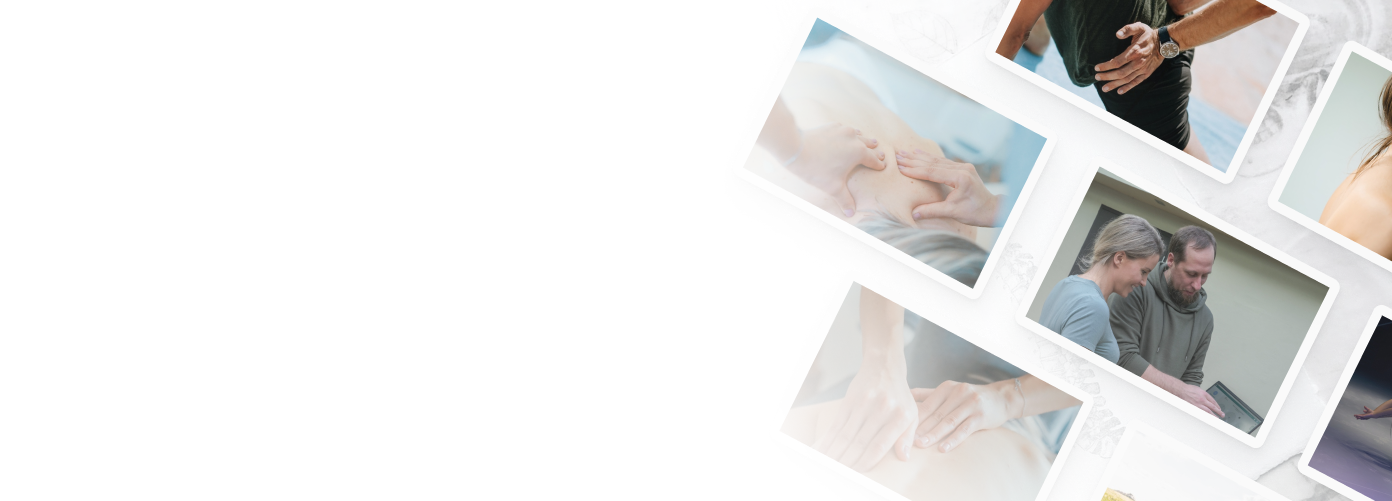
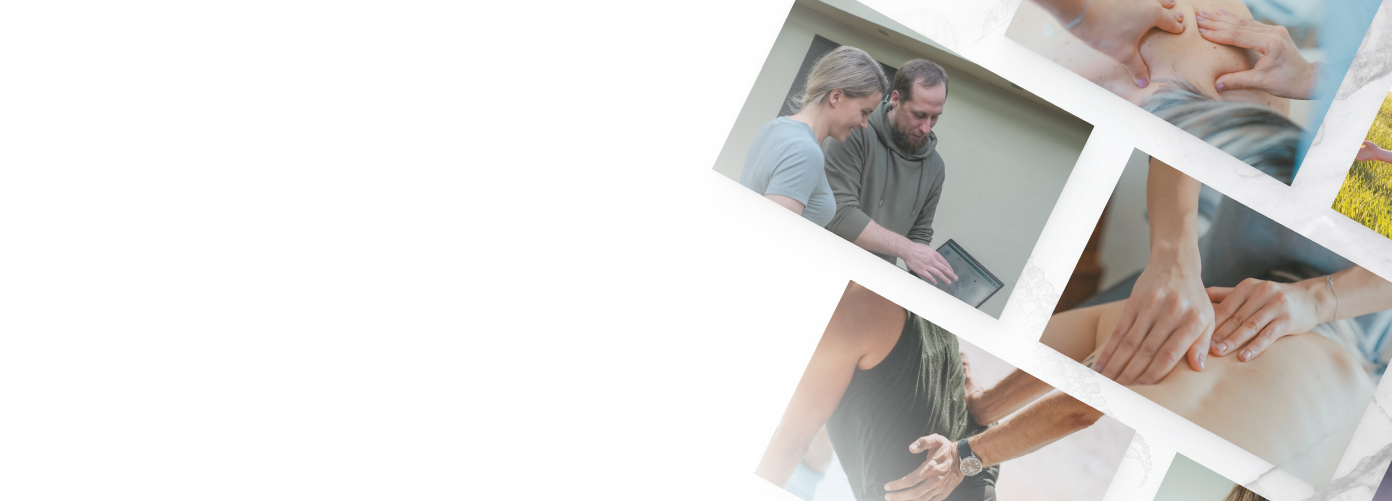
update UI and increase performance
delete uppercase naming

fix name cases

fix logo case

fix logo case

Fix typo

mix-blend-mode ios fix attempt

fix mix-blend ios issues

switch mix-blend to diffrenece

fix

Update index.tsx

Update index.tsx

diff --git a/pages/index.tsx b/pages/index.tsx
@@ -16,21 +16,18 @@ import {
   projects,
 } from "../constants";
 import image1 from "../public/images/hero.png";
-// import project1 from "../public/images/jrdesign_cover.png";
-// import project1lc from "../public/images/logo_jrdesign_colored.png";
-// import project1lw from "../public/images/logo_jrdesign_alt.png";
 
 const Home: NextPage = () => {
   return (
     <Layout>
       <div className="container">
-        <section className="relative">
-          <div className="w-18 sm:w-[50%] mx-auto md:w-full flex items-center justify-center mt-5">
+        <section className="relative bg-gray-5">
+          <div className="bg-gray-5 w-18 sm:w-[50%] mx-auto md:w-full flex items-center justify-center mt-5">
             <Image src={image1} placeholder="blur" className="mx-4" />
           </div>
           <div className="absolute top-0 left-0 right-0 bottom-0 flex flex-col h-[500px] xl:h-[486px]">
-            <h1 className="font-comp text-3xl sm:text-5xl md:text-6xl lg:text-6xl xl:text-7xl my-auto leading-[1.4] sm:leading-[1.2] mix-blend-exclusion text-gray-200 text-center mx-auto sm:mx-0 sm:text-left md:mb-3-25">
-              <span className="block capitalize overflow-hidden">
+            <h1 id="main_heading" className="font-comp text-3xl sm:text-5xl md:text-6xl lg:text-6xl xl:text-7xl my-auto leading-[1.4] sm:leading-[1.2] text-center mx-auto sm:mx-0 sm:text-left md:mb-3-25">
+              <span className="block capitalize overflow-hidden mix-blend-difference text-gray-200">
                 <motion.div
                   initial="hidden"
                   animate="visible"
@@ -39,7 +36,7 @@ const Home: NextPage = () => {
                   {heroContent.title[0]}
                 </motion.div>
               </span>
-              <span className="block capitalize overflow-hidden">
+              <span className="block capitalize overflow-hidden mix-blend-difference text-gray-200">
                 <motion.div
                   initial="hidden"
                   animate="visible"
@@ -48,7 +45,7 @@ const Home: NextPage = () => {
                   {heroContent.title[1]}
                 </motion.div>
               </span>
-              <span className="block capitalize overflow-hidden">
+              <span className="block capitalize overflow-hidden mix-blend-difference text-gray-200">
                 <motion.div
                   initial="hidden"
                   animate="visible"
@@ -59,7 +56,7 @@ const Home: NextPage = () => {
               </span>
             </h1>
             <div className="flex w-full sm:grid sm:grid-cols-6 lg:grid-cols-12 items-center">
-              <div className="hidden sm:block min-w-full h-[1px] bg-gray-5 mix-blend-exclusion sm:col-span-3 md:col-span-4 lg:col-span-9"></div>
+              <div className="hidden sm:block min-w-full h-[1px] bg-gray-5 mix-blend-difference sm:col-span-3 md:col-span-4 lg:col-span-9"></div>
               <div className="px-1 w-full sm:col-span-3 md:col-span-2 lg:col-span-3">
                 <p className="text-sm text-center sm:text-left">
                   {heroContent.comp}
@@ -88,7 +85,7 @@ const Home: NextPage = () => {
           </div>
         </section>
       </div>
-      <section className="mt-5">
+      <section className="mt-5 relative z-20">
         {projects.map(({ classNames, id, initializer, ...data }) => (
           <div key={uuid()}>
             <ProjectWrapper

diff --git a/components/ProjectContent/index.tsx b/components/ProjectContent/index.tsx
@@ -24,21 +24,21 @@ const ProjectContent = ({
     <article className="w-full">
       <div
         className={`absolute top-0 right-0 bottom-0 justify-end flex h-full w-full ${
-          makeDark ? "bg-white/60" : "bg-black/60"
+          makeDark ? "bg-white/40" : "bg-black/40"
         }`}
       >
         <Image
           src={cover}
           placeholder="blur"
           alt={`${title} cover`}
-          className="h-full object-[47%] sm:object-center"
+          className="h-full object-[10%] sm:object-center"
           objectFit="cover"
         />
       </div>
       <div className="absolute top-0 right-0 w-full h-full">
         <div className="container h-full">
           <div className="flex items-center justify-between h-full px-1">
-            <div className="flex flex-col">
+            <div className="flex flex-col pb-2 sm:pb-0">
               <div className="mb-1">
                 <Image src={altLogo} alt={`${title} logo`} placeholder="blur" />
               </div>
@@ -99,7 +99,7 @@ const ProjectContent = ({
                 )}
               </div>
             </div>
-            <div className="hidden md:block xl:hidden">
+            <div className="hidden md:block">
               {logo && (
                 <Image src={logo} alt={`${title} logo`} placeholder="blur" />
               )}

diff --git a/constants.ts b/constants.ts
@@ -24,39 +24,29 @@ const introContent = {
   },
 };
 
-const animationVariants = [
-  {
-    hidden: { opacity: 0, y: 100 },
-    visible: {
-      opacity: 1,
-      y: 0,
-      transition: { delay: 0.8, duration: 1.4, type: "spring", stiffness: 35 },
-    }
+const animation = {
+  hidden: { opacity: 0, y: 100 },
+  visible: {
+    y: 0,
+    opacity: 1,
+    transition: { delay: 0.8, duration: 1.4, type: "spring", stiffness: 35 },
   },
+};
+
+const animationVariants = [
+  { ...animation },
   {
-    hidden: { opacity: 0, y: 100 },
+    ...animation,
     visible: {
-      opacity: 1,
-      y: 0,
-      transition: {
-        delay: 0.8,
-        duration: 1.4,
-        type: "spring",
-        stiffness: 35,
-      },
+      ...animation.visible,
+      transition: { ...animation.visible.transition, delay: 0.95 },
     },
   },
   {
-    hidden: { opacity: 0, y: 100 },
+    ...animation,
     visible: {
-      opacity: 1,
-      y: 0,
-      transition: {
-        delay: 0.8,
-        duration: 1.4,
-        type: "spring",
-        stiffness: 35,
-      },
+      ...animation.visible,
+      transition: { ...animation.visible.transition, delay: 1 },
     },
   },
 ];

diff --git a/styles/globals.css b/styles/globals.css
@@ -95,7 +95,7 @@
 
 @layer base {
   html {
-    @apply scroll-smooth;
+    @apply scroll-smooth bg-gray-5;
   }
   body {
     @apply bg-gray-5 text-gray-500 font-prim;
@@ -143,7 +143,7 @@
     @apply h-full w-full;
   }
   .guides__wrapper {
-    @apply pointer-events-none fixed top-0 left-0 w-full h-screen overflow-hidden z-0;
+    @apply pointer-events-none fixed top-0 left-0 w-full h-screen overflow-hidden z-[1];
   }
   .guides__container {
     @apply container relative justify-between flex h-full;
@@ -204,6 +204,15 @@
   margin-top: -51px;
 }
 
+@media screen and (max-width: 525px) {
+  .project-wrapper-top {
+    clip-path: polygon(0 25px, 100% 0, 100% 100%, 0 calc(100% - 25px));
+  }
+  .project-wrapper-bottom {
+    clip-path: polygon(0 0, 100% 25px, 100% calc(100% - 25px), 0 100%);
+  }
+}
+
 #gradient-canvas-1 {
   --gradient-color-1: #111010;
   --gradient-color-2: #e01a17;
@@ -223,4 +232,10 @@
   --gradient-color-2: #010910;
   --gradient-color-3: #010910;
   --gradient-color-4: #010910;
+}
+
+@supports (mix-blend-mode: difference) {
+  #main_heading {
+    /* color: ; */
+  }
 }

diff --git a/components/GrainScreen/index.tsx b/components/GrainScreen/index.tsx
@@ -1,7 +1,16 @@
+import resolveConfig from "tailwindcss/resolveConfig";
 import { useLayoutEffect, useRef } from "react";
+import { useMedia } from "react-use";
+
+import tailwindConfig from "tailwind.config.js";
 import Grain from "effects/Grain";
 
+const _TW_CONFIG = resolveConfig(tailwindConfig);
+const _MOBILE_BREAKPOINT = _TW_CONFIG.theme.screens.sm;
+const _DEFAULT = true;
+
 const GrainScreen = () => {
+  const isMobile = useMedia(`(max-width: ${_MOBILE_BREAKPOINT})`, _DEFAULT);
   const grainHolder = useRef<null | HTMLElement>(null);
   const grainInstance = useRef<null | Grain>(null);
 
@@ -15,6 +24,7 @@ const GrainScreen = () => {
 
   return (
     <canvas
+      style={{ display: isMobile ? "none" : "block" }}
       className="w-screen h-screen fixed z-50 top-0 left-0 pointer-events-none opacity-80"
       ref={(e) => (grainHolder.current = e)}
     ></canvas>

diff --git a/effects/Grain/index.ts b/effects/Grain/index.ts
@@ -21,10 +21,10 @@ class Grain {
      * Options
      * Increase the pattern size if visible pattern
      */
-    this.patternSize = 150;
+    this.patternSize = 60;
     this.patternScaleX = 1;
     this.patternScaleY = 1;
-    this.patternRefreshInterval = 3; // 8
+    this.patternRefreshInterval = 6; // 8
     this.patternAlpha = 15; // int between 0 and 255,
 
     /**

diff --git a/components/Logo/index.tsx b/components/Logo/index.tsx
@@ -5,7 +5,7 @@ const Logo = () => {
     <div className="flex items-center">
       <div className="relative w-2-25 h-2-25 sm:w-3 sm:h-3">
         <Image
-          src="/images/RB_LOGO.svg"
+          src="/images/rb_logo.svg"
           layout="fill"
           alt="Rochdi Belhirch logo"
         />
